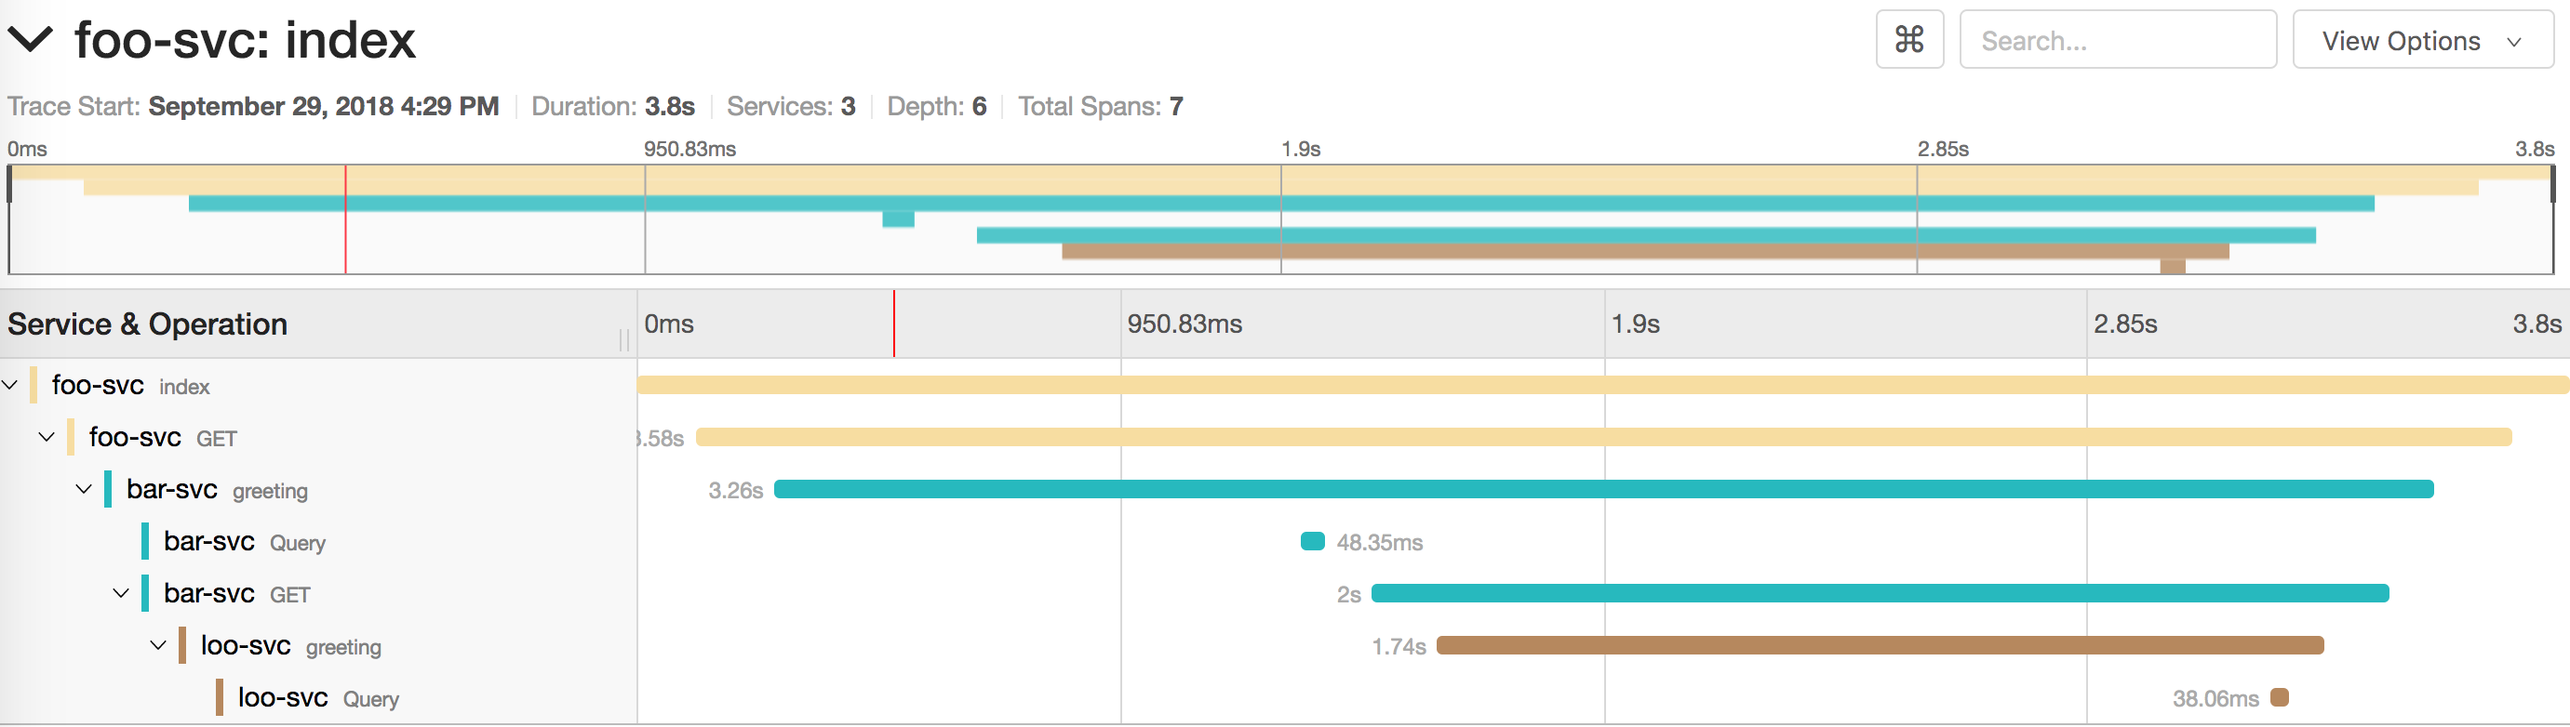
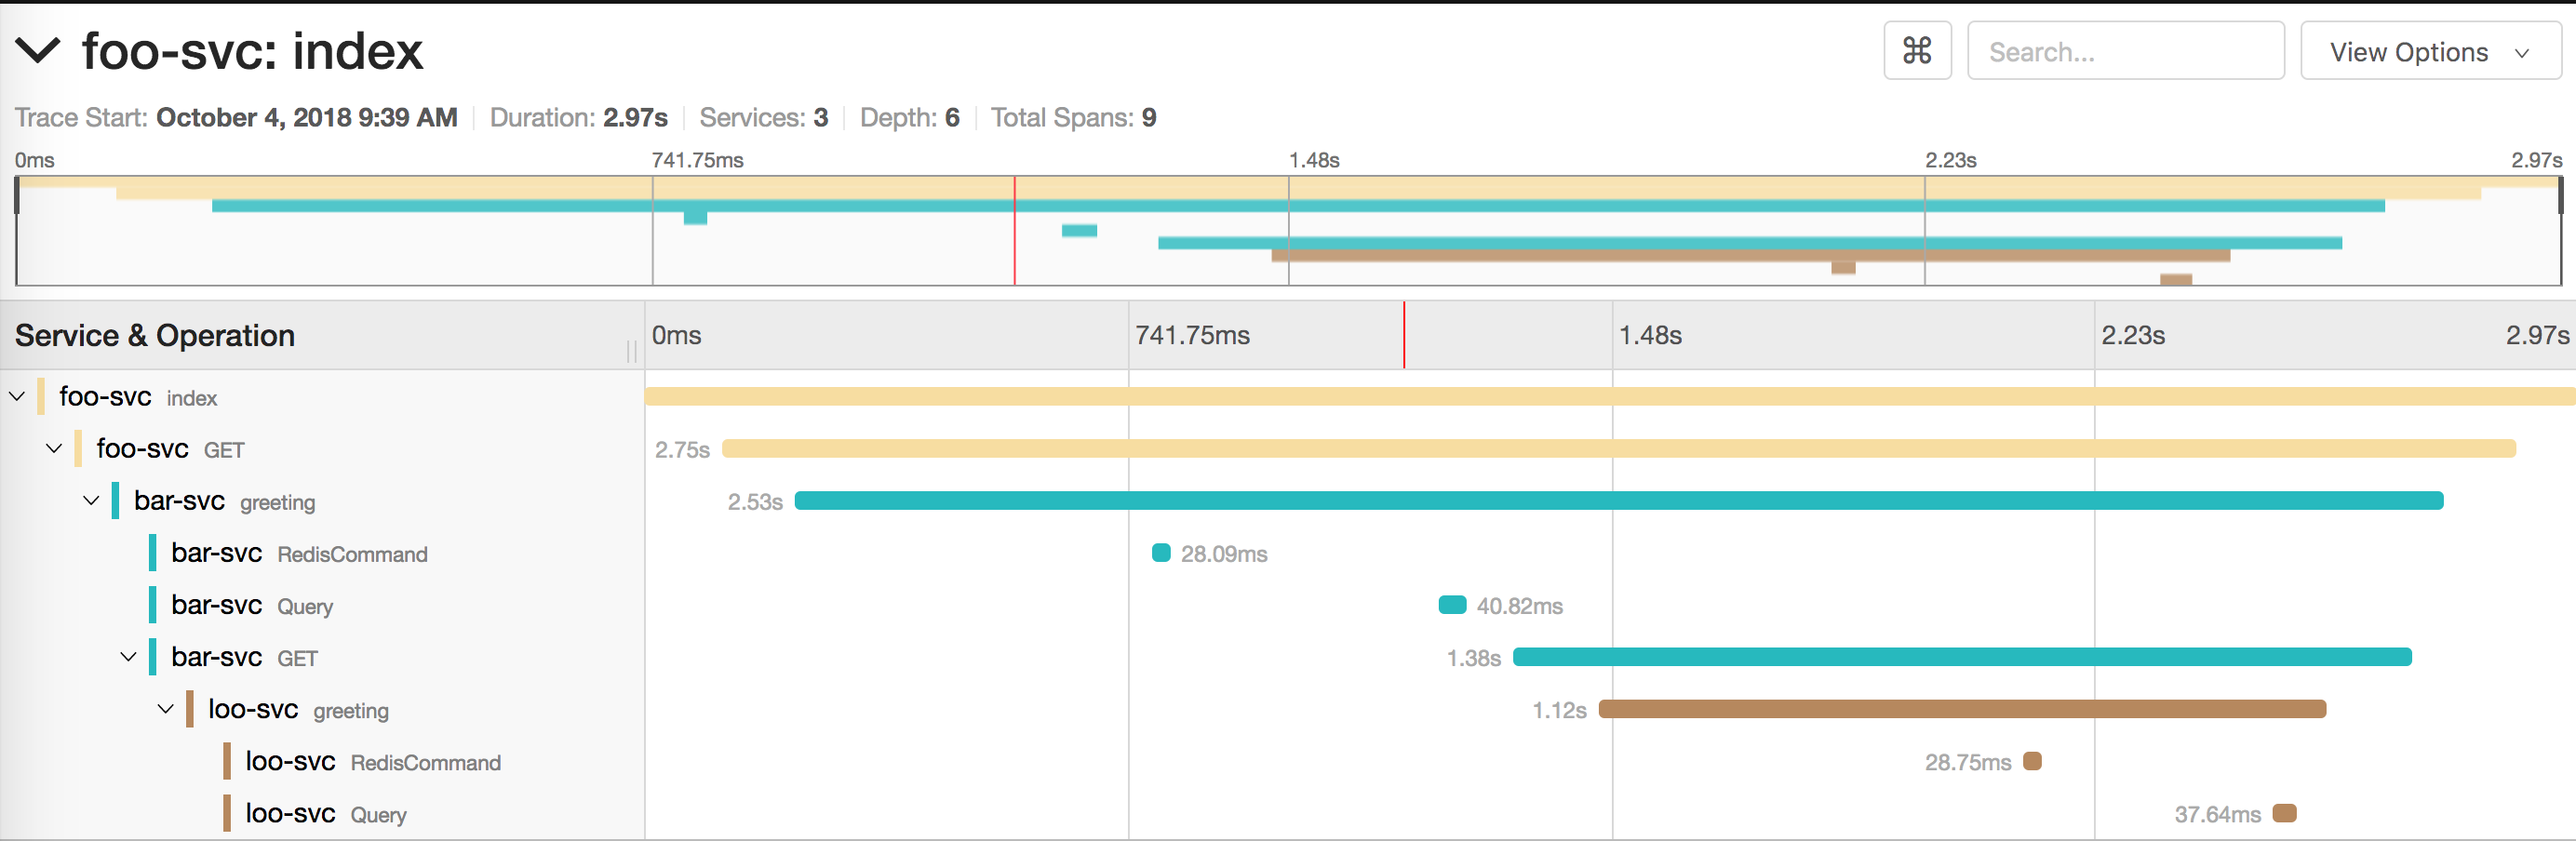
add redis tracing demo code

diff --git a/bar-svc/src/main/java/me/chanjar/istio_jaeger/bar/RedisConnectionFactoryBeanPostProcessor.java b/bar-svc/src/main/java/me/chanjar/istio_jaeger/bar/RedisConnectionFactoryBeanPostProcessor.java
@@ -1,0 +1,27 @@
+package me.chanjar.istio_jaeger.bar;
+
+import io.opentracing.Tracer;
+import io.opentracing.contrib.redis.spring.connection.TracingRedisConnectionFactory;
+import org.springframework.beans.BeansException;
+import org.springframework.beans.factory.config.BeanPostProcessor;
+import org.springframework.data.redis.connection.RedisConnectionFactory;
+import org.springframework.stereotype.Component;
+
+@Component
+public class RedisConnectionFactoryBeanPostProcessor implements BeanPostProcessor {
+
+  private Tracer tracer;
+
+  public RedisConnectionFactoryBeanPostProcessor(Tracer tracer) {
+    this.tracer = tracer;
+  }
+
+  @Override
+  public Object postProcessAfterInitialization(Object bean, String beanName) throws BeansException {
+    if (bean instanceof RedisConnectionFactory) {
+      return new TracingRedisConnectionFactory((RedisConnectionFactory) bean, false, tracer);
+    }
+    return bean;
+  }
+
+}

diff --git a/loo-svc/src/main/java/me/chanjar/istio_jaeger/loo/RedisConnectionFactoryBeanPostProcessor.java b/loo-svc/src/main/java/me/chanjar/istio_jaeger/loo/RedisConnectionFactoryBeanPostProcessor.java
@@ -1,0 +1,27 @@
+package me.chanjar.istio_jaeger.loo;
+
+import io.opentracing.Tracer;
+import io.opentracing.contrib.redis.spring.connection.TracingRedisConnectionFactory;
+import org.springframework.beans.BeansException;
+import org.springframework.beans.factory.config.BeanPostProcessor;
+import org.springframework.data.redis.connection.RedisConnectionFactory;
+import org.springframework.stereotype.Component;
+
+@Component
+public class RedisConnectionFactoryBeanPostProcessor implements BeanPostProcessor {
+
+  private Tracer tracer;
+
+  public RedisConnectionFactoryBeanPostProcessor(Tracer tracer) {
+    this.tracer = tracer;
+  }
+
+  @Override
+  public Object postProcessAfterInitialization(Object bean, String beanName) throws BeansException {
+    if (bean instanceof RedisConnectionFactory) {
+      return new TracingRedisConnectionFactory((RedisConnectionFactory) bean, false, tracer);
+    }
+    return bean;
+  }
+
+}

diff --git a/README.md b/README.md
@@ -25,8 +25,35 @@ Spring Boot项目利用Jaeger做分布式Tracing的例子。
 
 ![Figure-1](assets/figure-1.png)
 
-你可以看到HTTP请求还有数据库请求，但是看不到Redis请求，这是因为目前用的[opentracing java-spring-jaeger][opentracing java-spring-jaeger]
-还没有提供Redis的instrumentation。
+**关于Redis的Tracing**
+
+目前[opentracing java-spring-jaeger][opentracing java-spring-jaeger]还没有提供`spring-data-redis`的Auto Configuration，因此需要自己引入[opentracing java-redis-client][opentracing java-redis-client]项目。
+
+本例子是使用`BeanPostProcessor`来instrument的，见`RedisConnectionFactoryBeanPostProcessor.java`：
+
+```java
+@Component
+public class RedisConnectionFactoryBeanPostProcessor implements BeanPostProcessor {
+
+  private Tracer tracer;
+
+  public RedisConnectionFactoryBeanPostProcessor(Tracer tracer) {
+    this.tracer = tracer;
+  }
+
+  @Override
+  public Object postProcessAfterInitialization(Object bean, String beanName) throws BeansException {
+    if (bean instanceof RedisConnectionFactory) {
+      return new TracingRedisConnectionFactory((RedisConnectionFactory) bean, false, tracer);
+    }
+    return bean;
+  }
+
+}
+```
+
+不过对[opentracing java-redis-client][opentracing java-redis-client]的源代码观察发现，似乎并不是`RedisConnection`和`ReactiveRedisConnection`的所有操作都会做tracing。
+特别是`ReactiveRedisConnection`，几乎所有操作都没有做tracing（写本文是[opentracing java-redis-client][opentracing java-redis-client]版本0.0.8）。
 
 **清理**
 
@@ -98,3 +125,4 @@ Spring Boot项目利用Jaeger做分布式Tracing的例子。
 [opentracing-tutorial-java]: https://github.com/yurishkuro/opentracing-tutorial/tree/master/java
 [istio-issue-7963]: https://github.com/istio/istio/issues/7963
 [opentracing-java]: https://github.com/opentracing/opentracing-java
+[opentracing java-redis-client]: https://github.com/opentracing-contrib/java-redis-client
